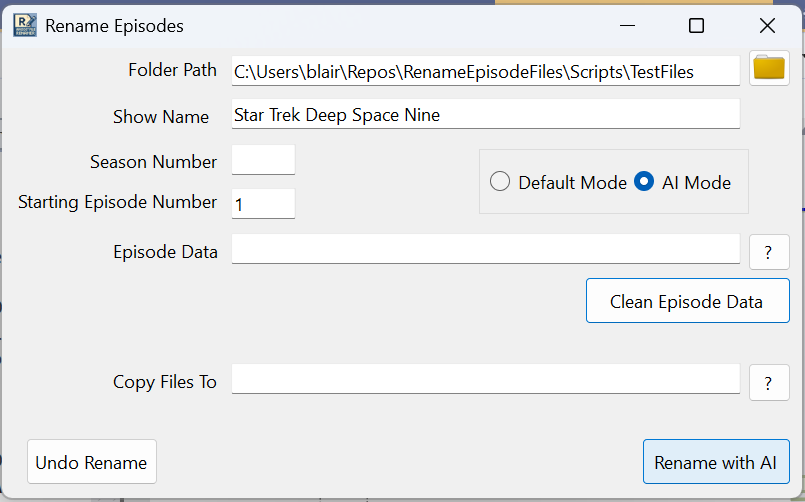
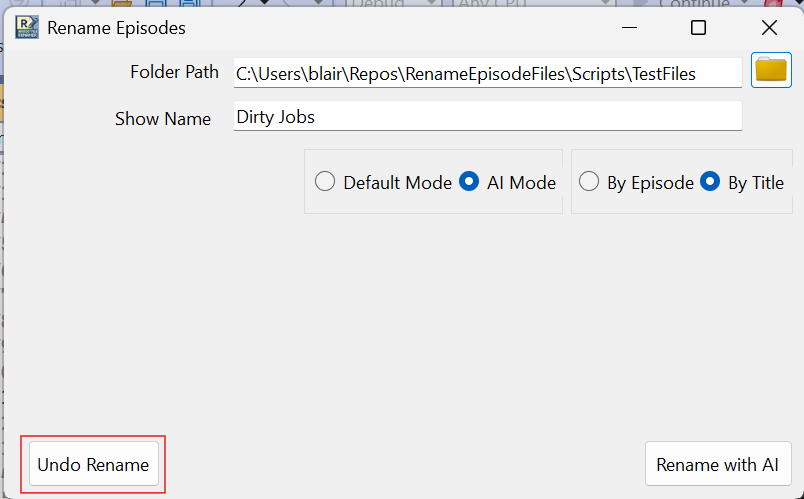
Update README.md to clarify AI Mode options and requirements; improve accuracy notes

diff --git a/README.md b/README.md
@@ -34,12 +34,12 @@ It is specifically designed for users of tools like Plex or Embi who are making 
 
 ## AI Mode
 
-AI Mode is a experimental mode, hidden by default, that uses the season and episode number in a filename to automatically retrieve episode titles from theTVDB.com.
+AI Mode is a experimental mode, hidden by default, that uses either the season and episode number ("By Episode") or the title ("By Title") in a filename to automatically retrieve episode numbers or titles from theTVDB.com.
 ![Screenshot of Rename Episodes app in AI mode](renep-ai.png)
 
 > To enable the AI mode toggle, you will need:
 >
-> 1. [an OpenAI API Key](https://platform.openai.com/docs/quickstart?desktop-os=windows)
+> 1. [a **paid** OpenAI API Key](https://platform.openai.com/docs/quickstart?desktop-os=windows)
 > 2. A `secrets.json` file in the root directory with the OpenAI API Key
 
 `secrets.json` example
@@ -52,13 +52,14 @@ AI Mode is a experimental mode, hidden by default, that uses the season and epis
 
 ### Options
 
-- Folder Path - folder where the files are now. Use the '?' button to select from a dialog.
+- Folder Path - folder where the files are now. Use the Directory/Folder button to select from a dialog.
 - Show Name - The show name goes that will be used in the filename.
 
 ### Caveats
 
 - Overwrites any existing filenames
-- The AI doesn't get the episode title 100% correct yet.
+- The AI doesn't get the episode title 100% correct yet (but has improved)
+- AI Modes are slower, but more accurate now
 
 ### Renaming
 
